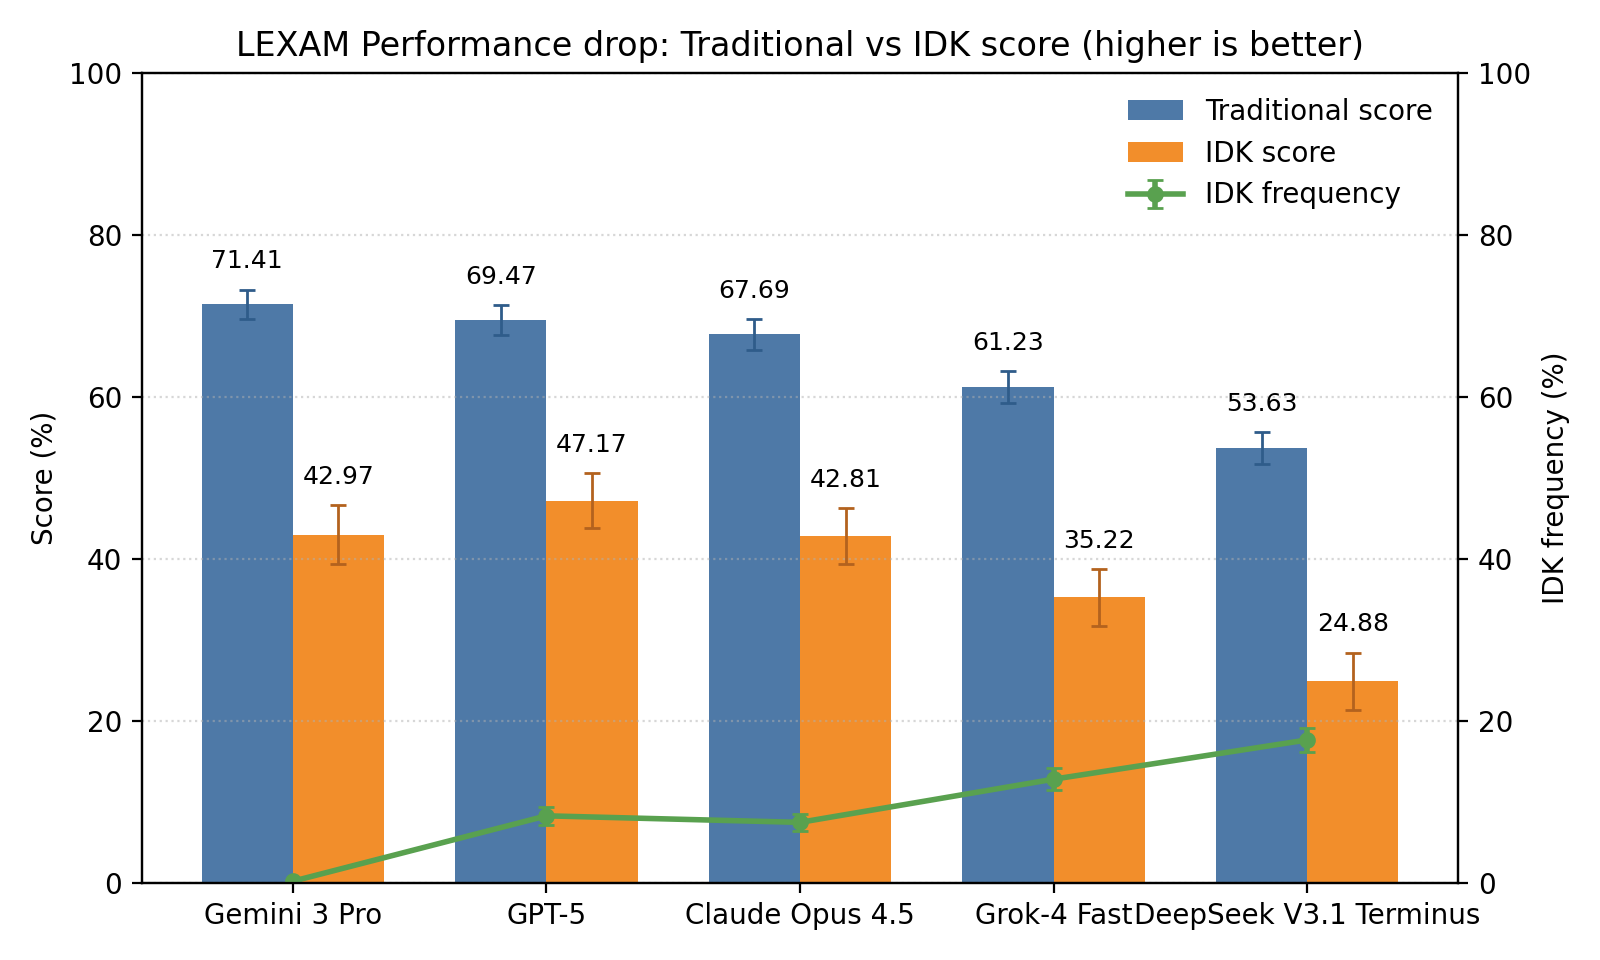
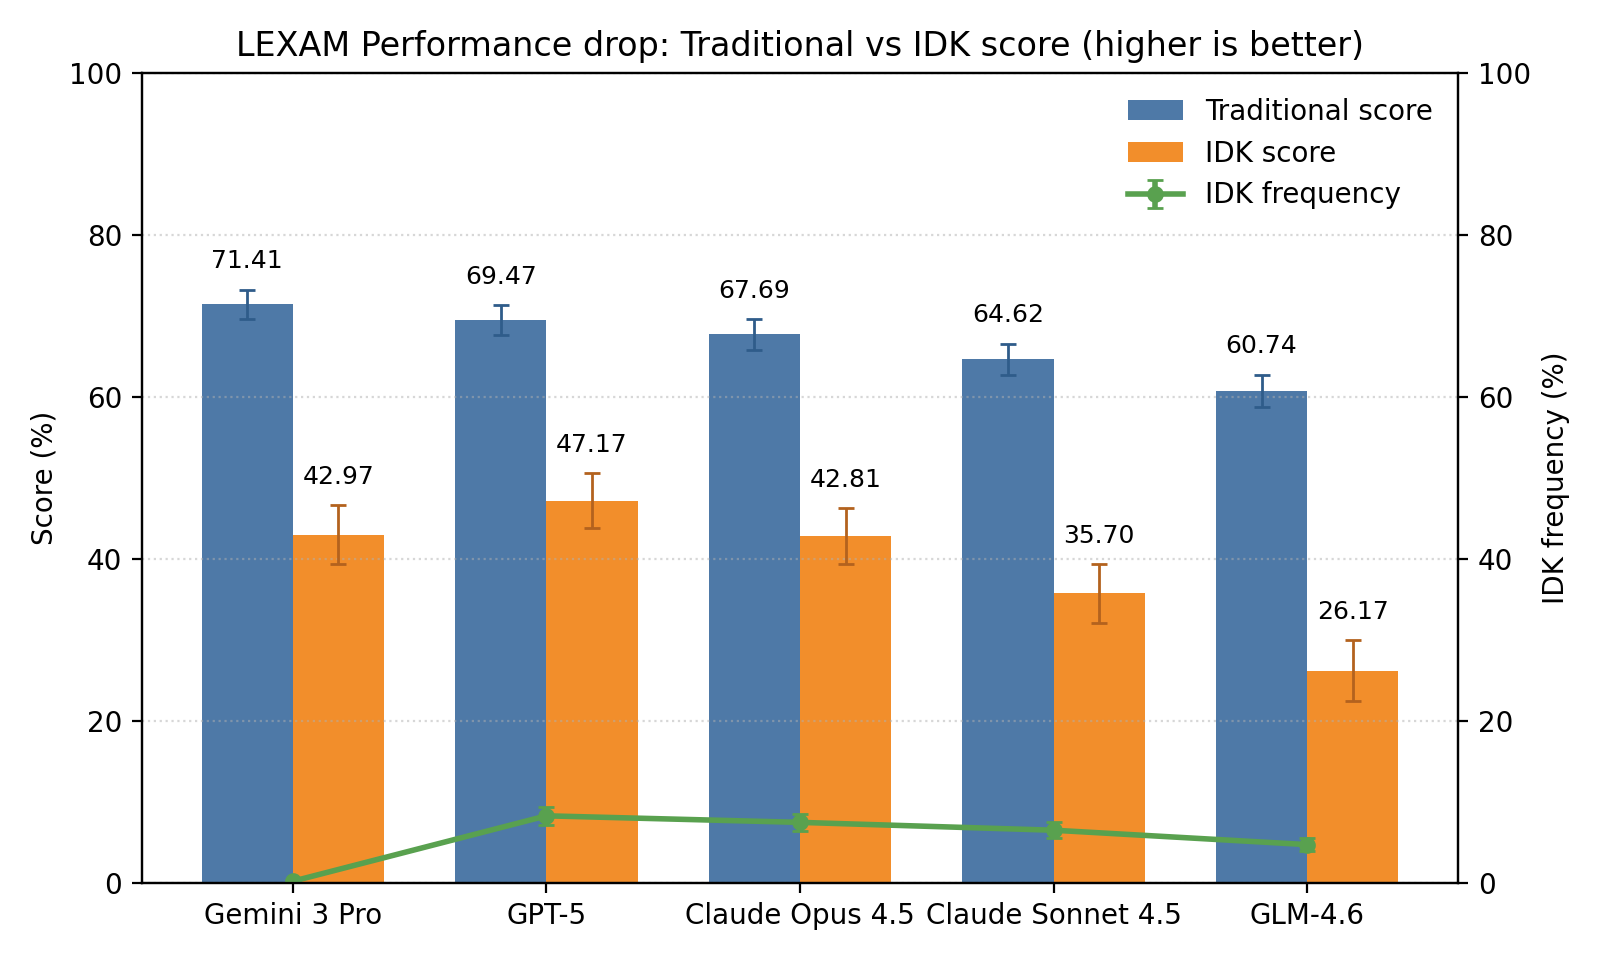
updated lexam chart

diff --git a/summarize_results.py b/summarize_results.py
@@ -363,8 +363,8 @@ if plt is not None:
         ("gemini-3-pro-preview", "Gemini 3 Pro"),
         ("gpt-5", "GPT-5"),
         ("claude-opus-4.5", "Claude Opus 4.5"),
-        ("grok-4-fast", "Grok-4 Fast"),
-        ("DeepSeek-V3.1-Terminus", "DeepSeek V3.1 Terminus"),
+        ("claude-sonnet-4.5", "Claude Sonnet 4.5"),
+        ("glm-4.6", "GLM-4.6"),
     ]
     
     create_chart(gpqa_rows, "GPQA Diamond", "score_drop_barchart_gpqa.png", gpqa_models)
